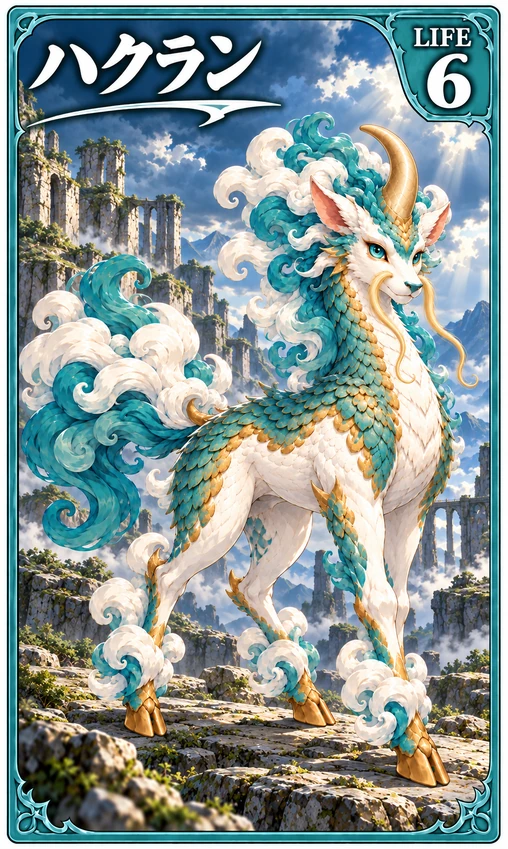
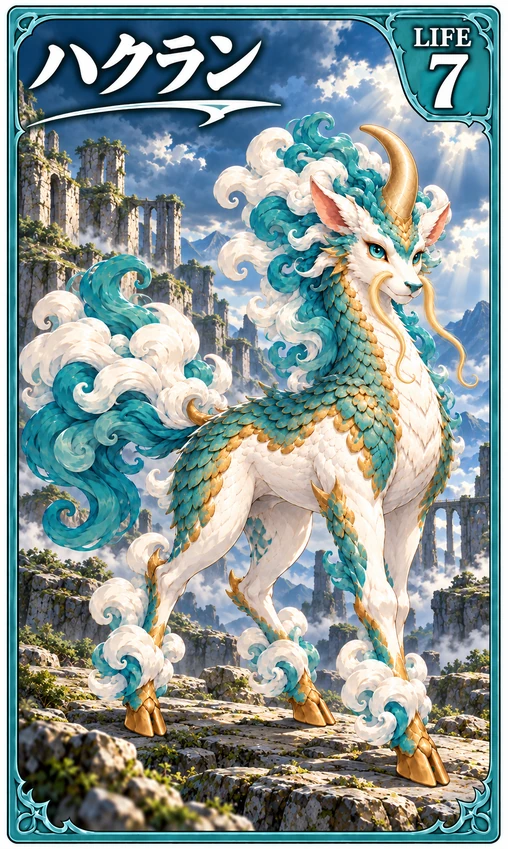
ハクランの正式モンスターカードを LIFE 7 の版に（指示書 AF2 の追加）
- 原本 hakuran_official_monstercard_LIFE7.png を無改変で足し（LIFE6 の版も残す）、hakuran_official.webp（508×849）を作り直した
- 寝かせたカード shop_card_hakuran.png も作り直した

Claude-Session: https://claude.ai/code/session_01GPUK2xgXF9sGTmLsfqze8g

Changed region(s): [[0.8268, 0.0612, 0.9449, 0.1531]]

diff --git a/src/data/hakuran.ts b/src/data/hakuran.ts
@@ -15,13 +15,13 @@ import { officialSkill, twoDigits, type OfficialSkill } from './officialSkills.t
  * ガチャのシリーズは economy.ts の GACHA_SERIES に1行あるが、モンスターカードを持つまで並ばない
  *
  * 2026-10-31 指示書 AF2（ユーザー決定）：LIFE 6→7・4 ひづめげり ダメージ 2→3・9 てんをかける ダメージ 4→5。JSON・CSV を直し、前の版は
- *   design-parts/cards-original/hakuran/*_v1_20261031.* に残す。正式モンスターカードの絵は LIFE 7 の版が届くまで今の「LIFE 6」の絵のまま
- *   （届いたら tools/art/official_card_webp.py で hakuran_official.webp を作り直す）。モンスターカードの枠・パックの縁はハクランだけ暗く（ミュロルと見分けるため）
+ *   design-parts/cards-original/hakuran/*_v1_20261031.* に残す。正式モンスターカードの絵は LIFE 7 の版に差し替えた（下の「絵」）。モンスターカードの枠・パックの縁はハクランだけ暗く（ミュロルと見分けるため）
  *
  * ゲーム内 ID：mon-hakuran（ライフ7・内部ランク B。画面には出さない）、skl-hakuran-01〜14（JSON の no）
  * 絵（原本は design-parts/cards-original/hakuran/ に無改変）：
  * - 技 hakuran_sk_01〜14.webp（届いた hakuran_sk_NN.png を tools/art/card_art_webp.py で幅 827 の WebP に。番号＝技番号）
- * - 正式モンスターカード hakuran_official.webp（届いた hakuran_official_monstercard_LIFE6.png〔970×1622〕を tools/art/official_card_webp.py で 508×849 に）
+ * - 正式モンスターカード hakuran_official.webp（届いた hakuran_official_monstercard_LIFE6.png〔970×1622〕を tools/art/official_card_webp.py で 508×849 に）。
+ *   2026-10-31 指示書 AF2 の追加：LIFE 7 に直した hakuran_official_monstercard_LIFE7.png から作り直した（LIFE6 の原本も残す）
  * - バトル用 hakuran_battlecard.png（届いた hakuran_battleart.png を無改変。1169×1346）
  * 色：青緑（ティール）#237C7A（モンスターカード枠・技カード枠とも）
  * ガチャのレアの枠（JSON の gacha_slot）：08 らいうん・10 せいなるいかずち・14 かすみのあゆみ（HAKURAN_GACHA_RARE）

diff --git a/docs/hakuran-af-20261031.md b/docs/hakuran-af-20261031.md
@@ -95,8 +95,9 @@ AF の検品は合格。指示書 AF2（チャット）のとおり。セーブ 
 
 - LIFE 6 → **7**・4 ひづめげり（マナ2）ダメージ 2 → **3**・9 てんをかける（マナ4）ダメージ 4 → **5**
 - 正本の JSON・CSV（`design-parts/cards-original/hakuran/` と `src/data/official/`）を直した。直す前の版は `hakuran14_skills_OFFICIAL_20261031_v1_20261031.{json,csv}` として残した（JSON の status にも直したことを書いた）
-- **正式モンスターカードの絵はまだ「LIFE 6」**（デザイン担当に `hakuran_official_monstercard_LIFE7.png` を依頼中。届いたら `tools/art/official_card_webp.py` で `hakuran_official.webp` を作り直す）。
-  図鑑の説明・対戦のライフの数字は 7 と出る
+- 正式モンスターカード：**AF2 の追加（ZIP「Mistral_CC_AF2_Hakuran_Card_LIFE7_20261031」の `AF2_card_ja.md`）で LIFE 7 の版に差し替えた**。
+  原本 `hakuran_official_monstercard_LIFE7.png`（970×1622）を `design-parts/cards-original/hakuran/` に無改変で足し（LIFE6 の版も残す）、`official_card_webp.py` で `hakuran_official.webp`（508×849）を作り直した。
+  図鑑・大きなカード・対戦でモンスターを押したときなど、正式カードが出る所すべてで LIFE 7（写真）。寝かせたカード `shop_card_hakuran.png` も作り直した（今のショップの絵には使われていない）
 
 ## 【2】枠の色をハクランだけ濃く
 
@@ -126,5 +127,4 @@ AF の検品は合格。指示書 AF2（チャット）のとおり。セーブ 
 
 ## 未完了
 
-- 正式モンスターカードの絵の LIFE 7 版（届いたら差し替え）
 - 雷の高原・手に入れ方・ショップの棚の絵・iPhone 実機での確認

diff --git a/docs/handoff.md b/docs/handoff.md
@@ -9,7 +9,8 @@
 - **AF・AF2 を main に取り込み済み・未公開**（公開はユーザーの「公開して」待ち。公開中は AE まで）。セーブ version 31。テスト 1073件。作業ブランチ `af-hakuran`・`af2-hakuran-fix` は取り込み済み
 - AF は検品合格。AF2（記録 `docs/hakuran-af-20261031.md` の後半）：ハクラン LIFE 6→7・ひづめげり 2→3・てんをかける 4→5（JSON・CSV を直し、前の版は `_v1_20261031`）。
   モンスターカードの枠（`battle_card_frame.py` の `FORCE_DARK`）とパックの縁（`pack_tint.py` の `DEEPER`）をハクランだけ暗い青緑に。試遊 51.0% → **66.7%**（B の目安の中）
-- **待っているもの**：正式モンスターカードの LIFE 7 版 `hakuran_official_monstercard_LIFE7.png`（届いたら原本を `design-parts/cards-original/hakuran/` に置き、`official_card_webp.py` で `hakuran_official.webp`。shop_card も `shop_products.py` で作り直す）。部屋の家具の描き直し
+- AF2 の追加：正式モンスターカードを LIFE 7 の版に差し替えた（原本 `hakuran_official_monstercard_LIFE7.png`。LIFE6 の版も残す。作業ブランチ `af2b-hakuran-card-life7` は取り込み済み）。報告は ZIP「AF2追加作業報告_20261031.zip」
+- **待っているもの**：部屋の家具の描き直し
 - **ユーザーの返事待ち**：AF2 の報告・AC・AE の報告への感想
 - 報告は ZIP「AF2作業報告_20261031.zip」
 

diff --git a/design-parts/cards-original/hakuran/AF2_card_ja.md b/design-parts/cards-original/hakuran/AF2_card_ja.md
@@ -1,0 +1,6 @@
+AF2 の追加：ハクランの正式モンスターカード（LIFE 7）の差し替え（2026-10-31）
+
+- hakuran_official_monstercard_LIFE7.png（970×1622）：LIFE の数字を 6 → 7 に直した正式モンスターカード（ユーザーと進行が合格。変わったのは右上の LIFE の枠の中だけ）
+- 原本は design-parts/cards-original/hakuran/ に無改変で足す（前の LIFE6 の版は消さずに残す）
+- tools/art/official_card_webp.py で hakuran_official.webp（508×849）を作り直し、図鑑・大きなカードなど正式カードが出る所すべてで新しい版にする
+- AF2 の報告に、図鑑と大きなカードの写真（LIFE 7 が出ている所）を足す
